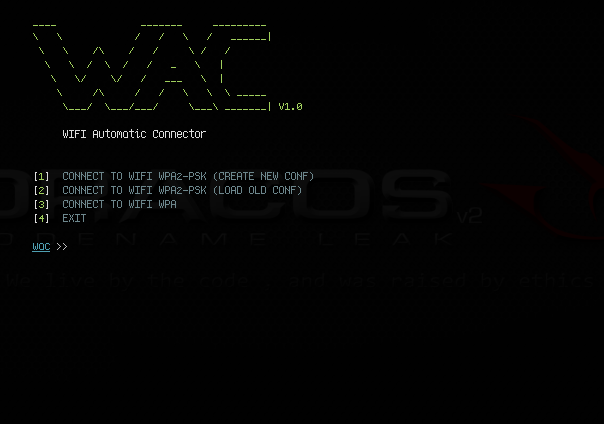
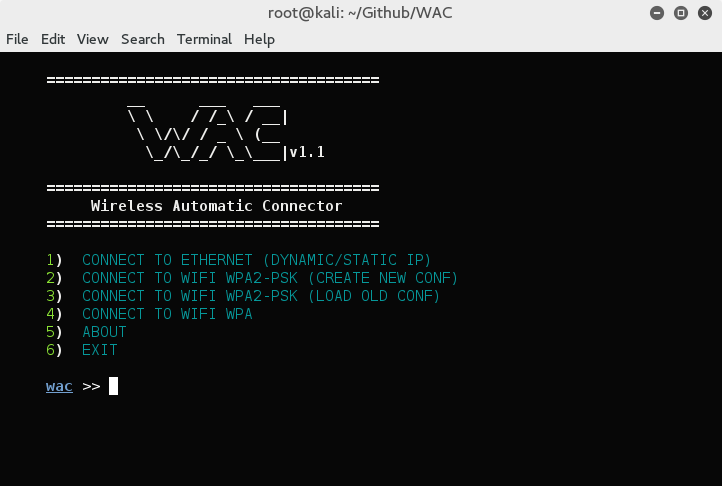
add feature and CHANGELOG.md

diff --git a/README.md b/README.md
@@ -1,5 +1,5 @@
 # WAC
-WAC (Wireless Automatic Connector) is an open source program which is using to connect wifi wpa or wpa-2psk quickly and easily.
+WAC (Wireless Automatic Connector) is an open source program which is using to connect ethernet, wifi wpa or wpa-2psk quickly and easily.
 
 # How to run?
 
@@ -10,3 +10,7 @@ WAC (Wireless Automatic Connector) is an open source program which is using to c
 # Preview
 
 ![Screenshot](preview.png)
+
+# Thanks
+
++ Phantom1212

diff --git a/CHANGELOG.md b/CHANGELOG.md
@@ -1,0 +1,5 @@
+ v1.1 Add connection to ethernet static or dynamic ip
+      
+      About
+
+ v1.0 Add connection to wpa or wpa2-psk
